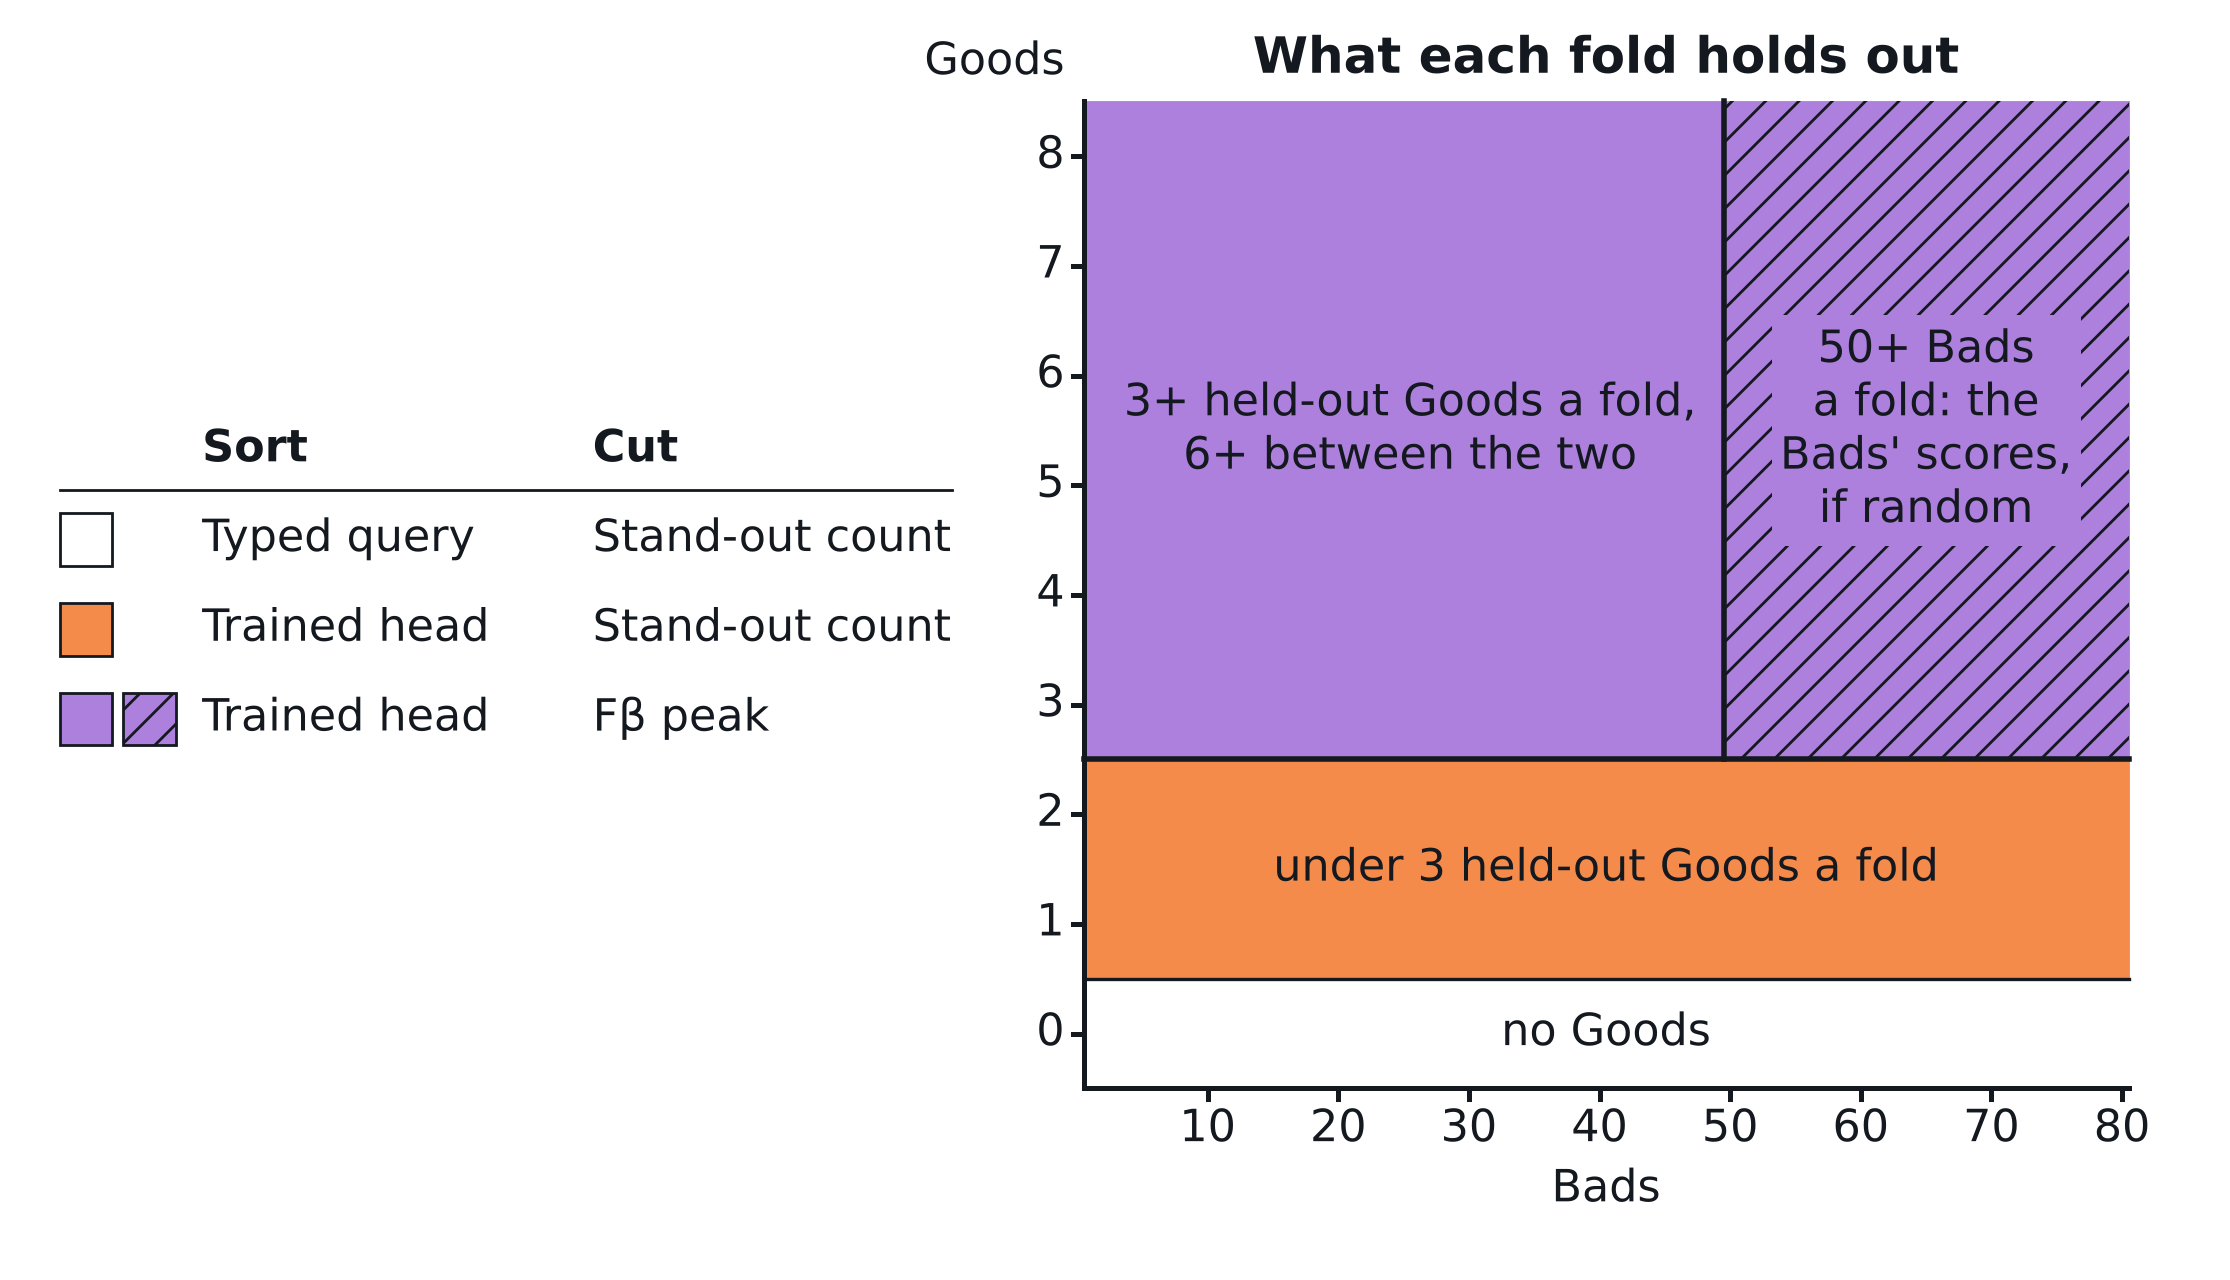
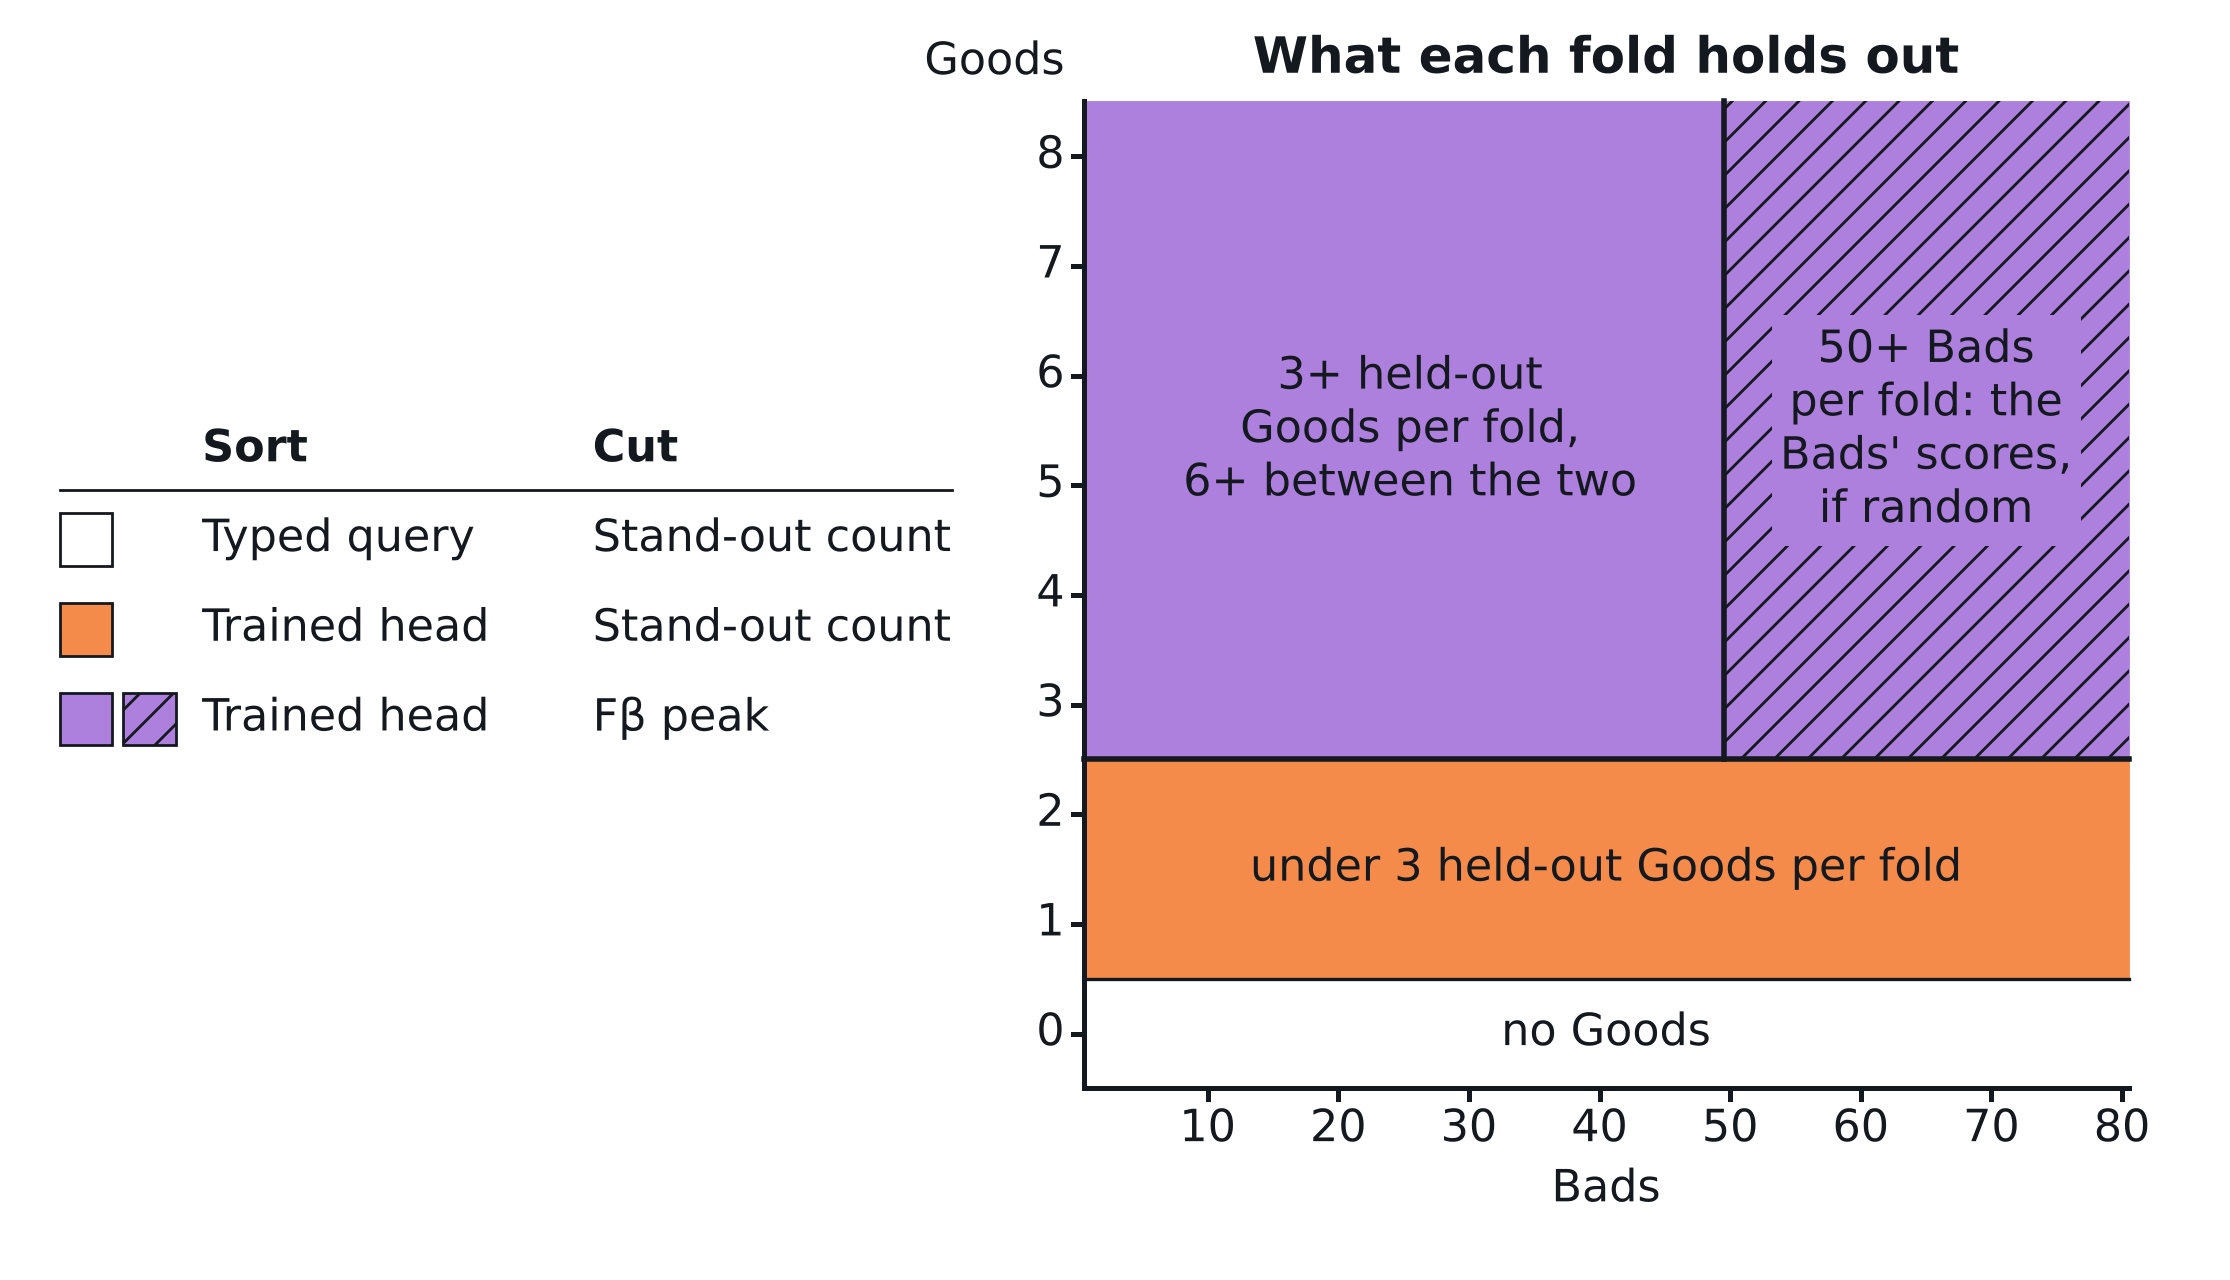
Slides: "per fold", not "a fold"
Inside Job's map names, its notes, and the manifest's comment on it say
"per fold" where they mean per (owner, 2026-10-13); the purple region's name
is rebroken to three lines to fit its strip.

Claude-Session: https://claude.ai/code/session_015JYDYJSoKrimV2DtawW9RR

Changed region(s): [[0.526, 0.2812, 0.7426, 0.4062], [0.557, 0.6562, 0.8973, 0.6875], [0.8045, 0.2812, 0.9283, 0.3438]]

diff --git a/slides/figs/src/make-calib-figs.py b/slides/figs/src/make-calib-figs.py
@@ -6573,8 +6573,8 @@ def _land_query(ax: plt.Axes) -> None:
 # ── Inside Job: the trained head's line, read off what a fold holds out ─────
 
 #: How many build stages the inside view reveals in: a thin class model,
-#: counting what stands out; the labels line, from three Goods a fold; where
-#: the Bads may shape the negatives, from fifty Bads a fold.
+#: counting what stands out; the labels line, from three Goods per fold; where
+#: the Bads may shape the negatives, from fifty Bads per fold.
 IN_STAGES = 3
 #: What one fold holds out, the map's two axes: Bads 1..IN_B, Goods 0..IN_G.
 #: A fold always holds out at least one of each (`_grouped_folds` trains on at
@@ -6619,9 +6619,9 @@ def inside_job_fig() -> None:
     holds: inside a fold the split has already rounded, so the trained head's
     line is a decision tree on two counts, with nothing left to chance. It
     comes before Lay of the Land, which is the band this rule makes once the
-    rounding is unknown. One or two Goods a fold, the head counts what stands out; three
+    rounding is unknown. One or two Goods per fold, the head counts what stands out; three
     (six between the two folds, `HEAD_COUNT_GOODS`), the labels line; fifty
-    Bads a fold (`RANDOM_BADS_MIN` between them), and the line may model the
+    Bads per fold (`RANDOM_BADS_MIN` between them), and the line may model the
     negatives by the Bads' own scores, if they look like a random sample.
     """
     final = _in_stage(IN_STAGES)
@@ -6668,15 +6668,15 @@ def _in_stage(stage: int) -> plt.Figure:
         ax.text(x0 + b * cw, y0 + g * ch, text, ha="center", va="center", fontsize=16, color=INK, zorder=6)
 
     name(IN_B / 2, 0.5, "no Goods")
-    name(IN_B / 2, 2.0, f"under {good_edge} held-out Goods a fold")
+    name(IN_B / 2, 2.0, f"under {good_edge} held-out Goods per fold")
     if stage >= 2:
         edge_y = _in_cell(1, good_edge)[1]
         ax.plot([x0, x1], [edge_y, edge_y], color=INK, linewidth=2.0, zorder=4)
-        name(bad_edge / 2, 6.0, f"{good_edge}+ held-out Goods a fold,\n{HEAD_COUNT_GOODS}+ between the two")
+        name(bad_edge / 2, 6.0, f"{good_edge}+ held-out\nGoods per fold,\n{HEAD_COUNT_GOODS}+ between the two")
     if stage >= 3:
         edge_x = _in_cell(bad_edge, 1)[0]
         ax.plot([edge_x, edge_x], [_in_cell(1, good_edge)[1], y1], color=INK, linewidth=2.0, zorder=4)
-        ax.text((edge_x + x1) / 2, y0 + 6.0 * ch, f"{bad_edge}+ Bads\na fold: the\nBads' scores,\nif random",
+        ax.text((edge_x + x1) / 2, y0 + 6.0 * ch, f"{bad_edge}+ Bads\nper fold: the\nBads' scores,\nif random",
                 ha="center", va="center", fontsize=16, color=INK, zorder=6,
                 bbox={"facecolor": LAND_FILL["labels"], "edgecolor": "none", "pad": 3})  # fmt: skip
     return fig

diff --git a/slides/fragments/inside-job.md b/slides/fragments/inside-job.md
@@ -16,15 +16,15 @@
 
 <!-- **a** — No Goods at all, in white: the typed query's text sort. With
      Goods, each fold holds out at least one Good and one Bad. With one or
-     two Goods a fold, in orange, the class model is too thin, and the head's
+     two Goods per fold, in orange, the class model is too thin, and the head's
      ranking is cut by Out Standing's count. -->
 
-<!-- **b** — Three Goods a fold, six between the two (#4798), in purple: the
+<!-- **b** — Three Goods per fold, six between the two (#4798), in purple: the
      same ranking, cut at What to Expect's Fβ peak. One flat edge, with no
      Bads in it. Which side of it a user's labels land on is the next
      slide. -->
 
-<!-- **c** — Fifty Bads a fold, a hundred between them (#4490): from there
+<!-- **c** — Fifty Bads per fold, a hundred between them (#4490): from there
      the labels line may model the negatives by the Bads' own scores rather
      than a normal fitted to the corpus, if the Bads look like a random
      sample of it. An imported, fully labelled set does; a session's never
